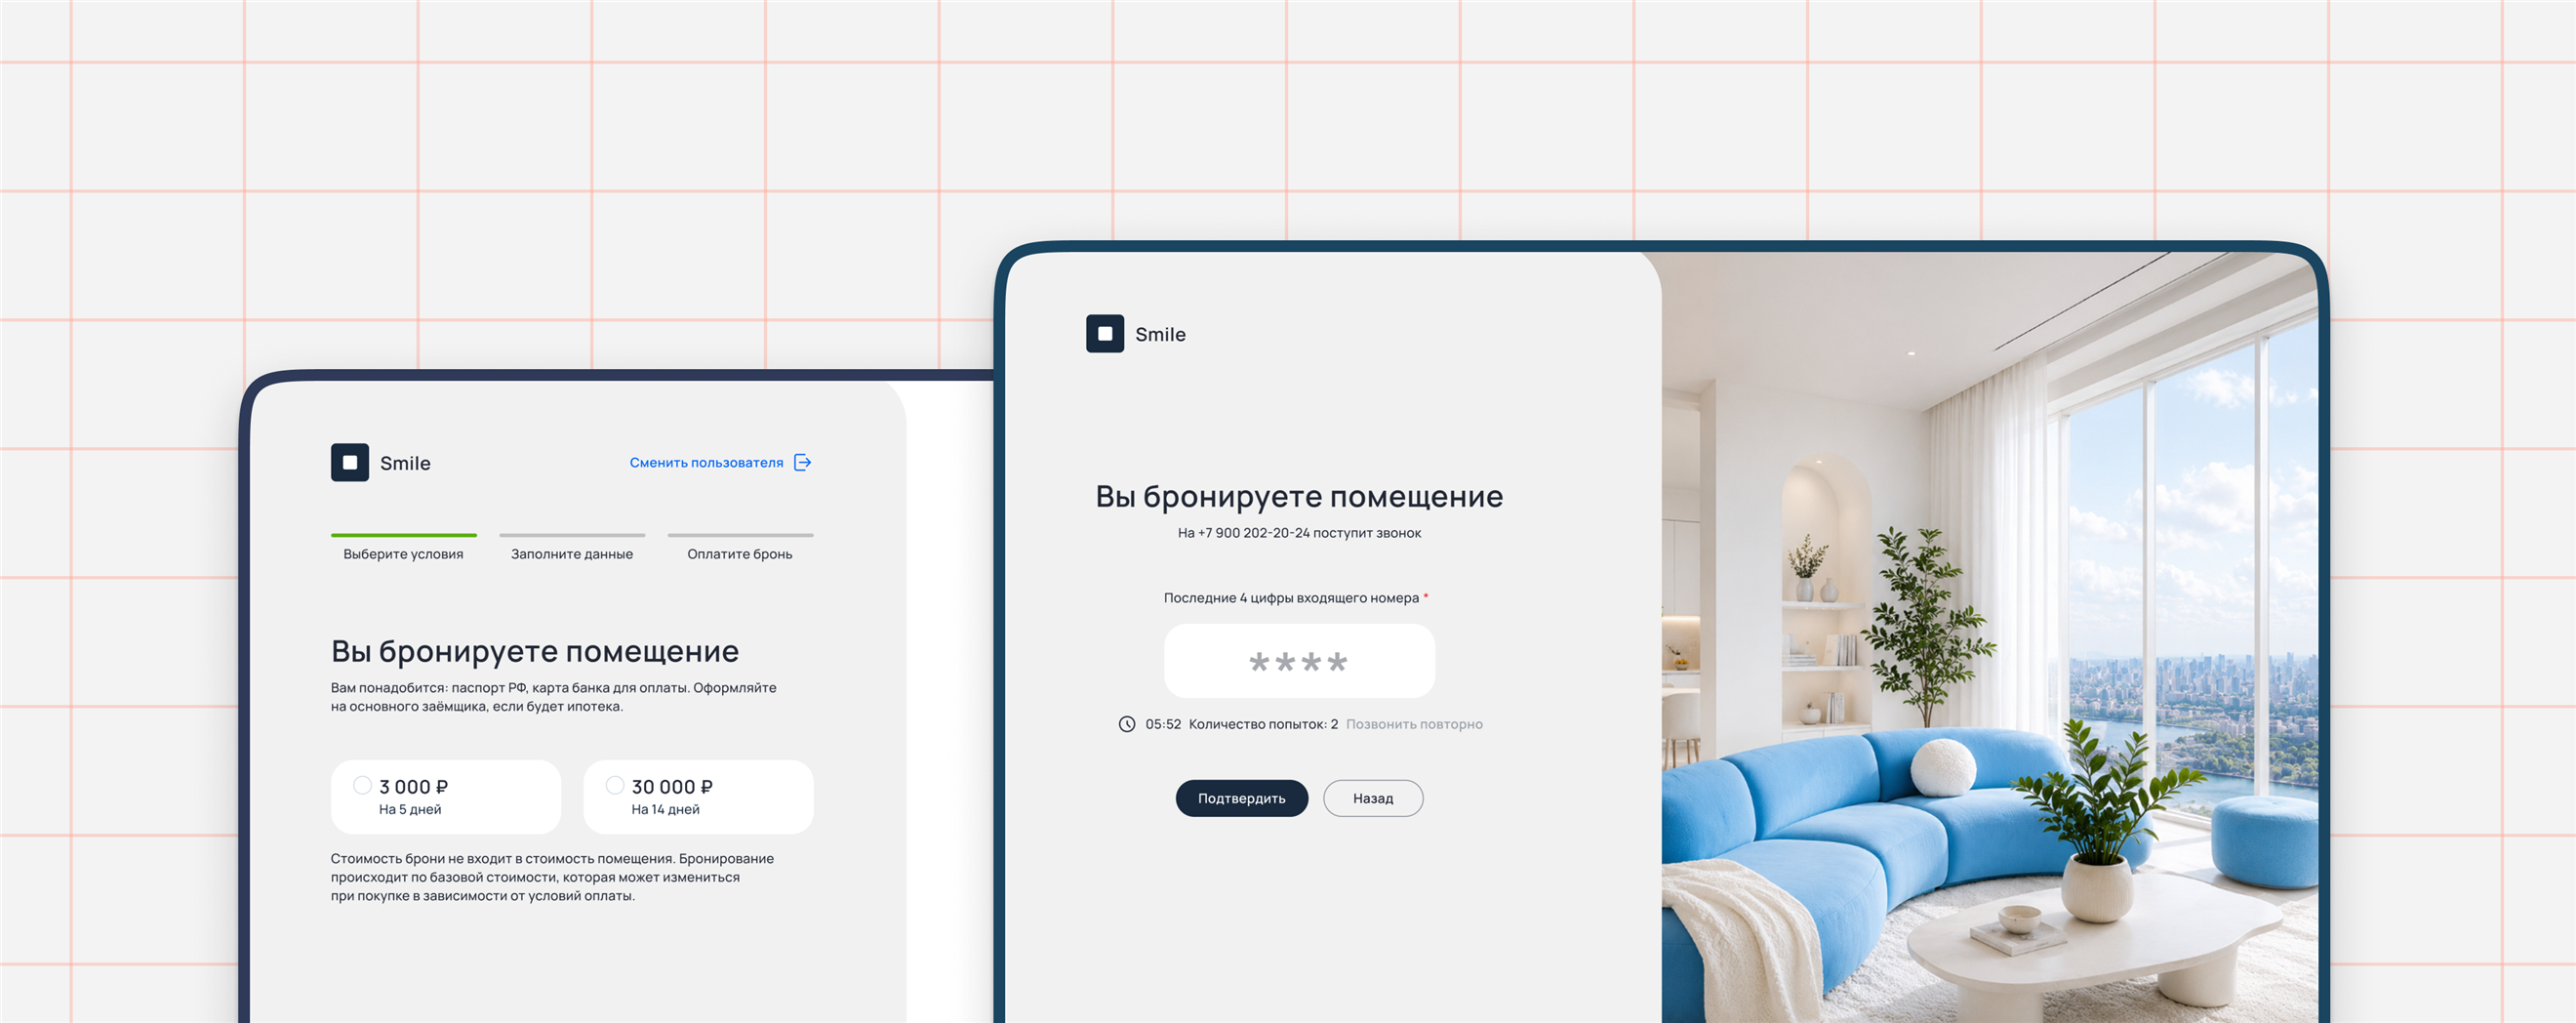
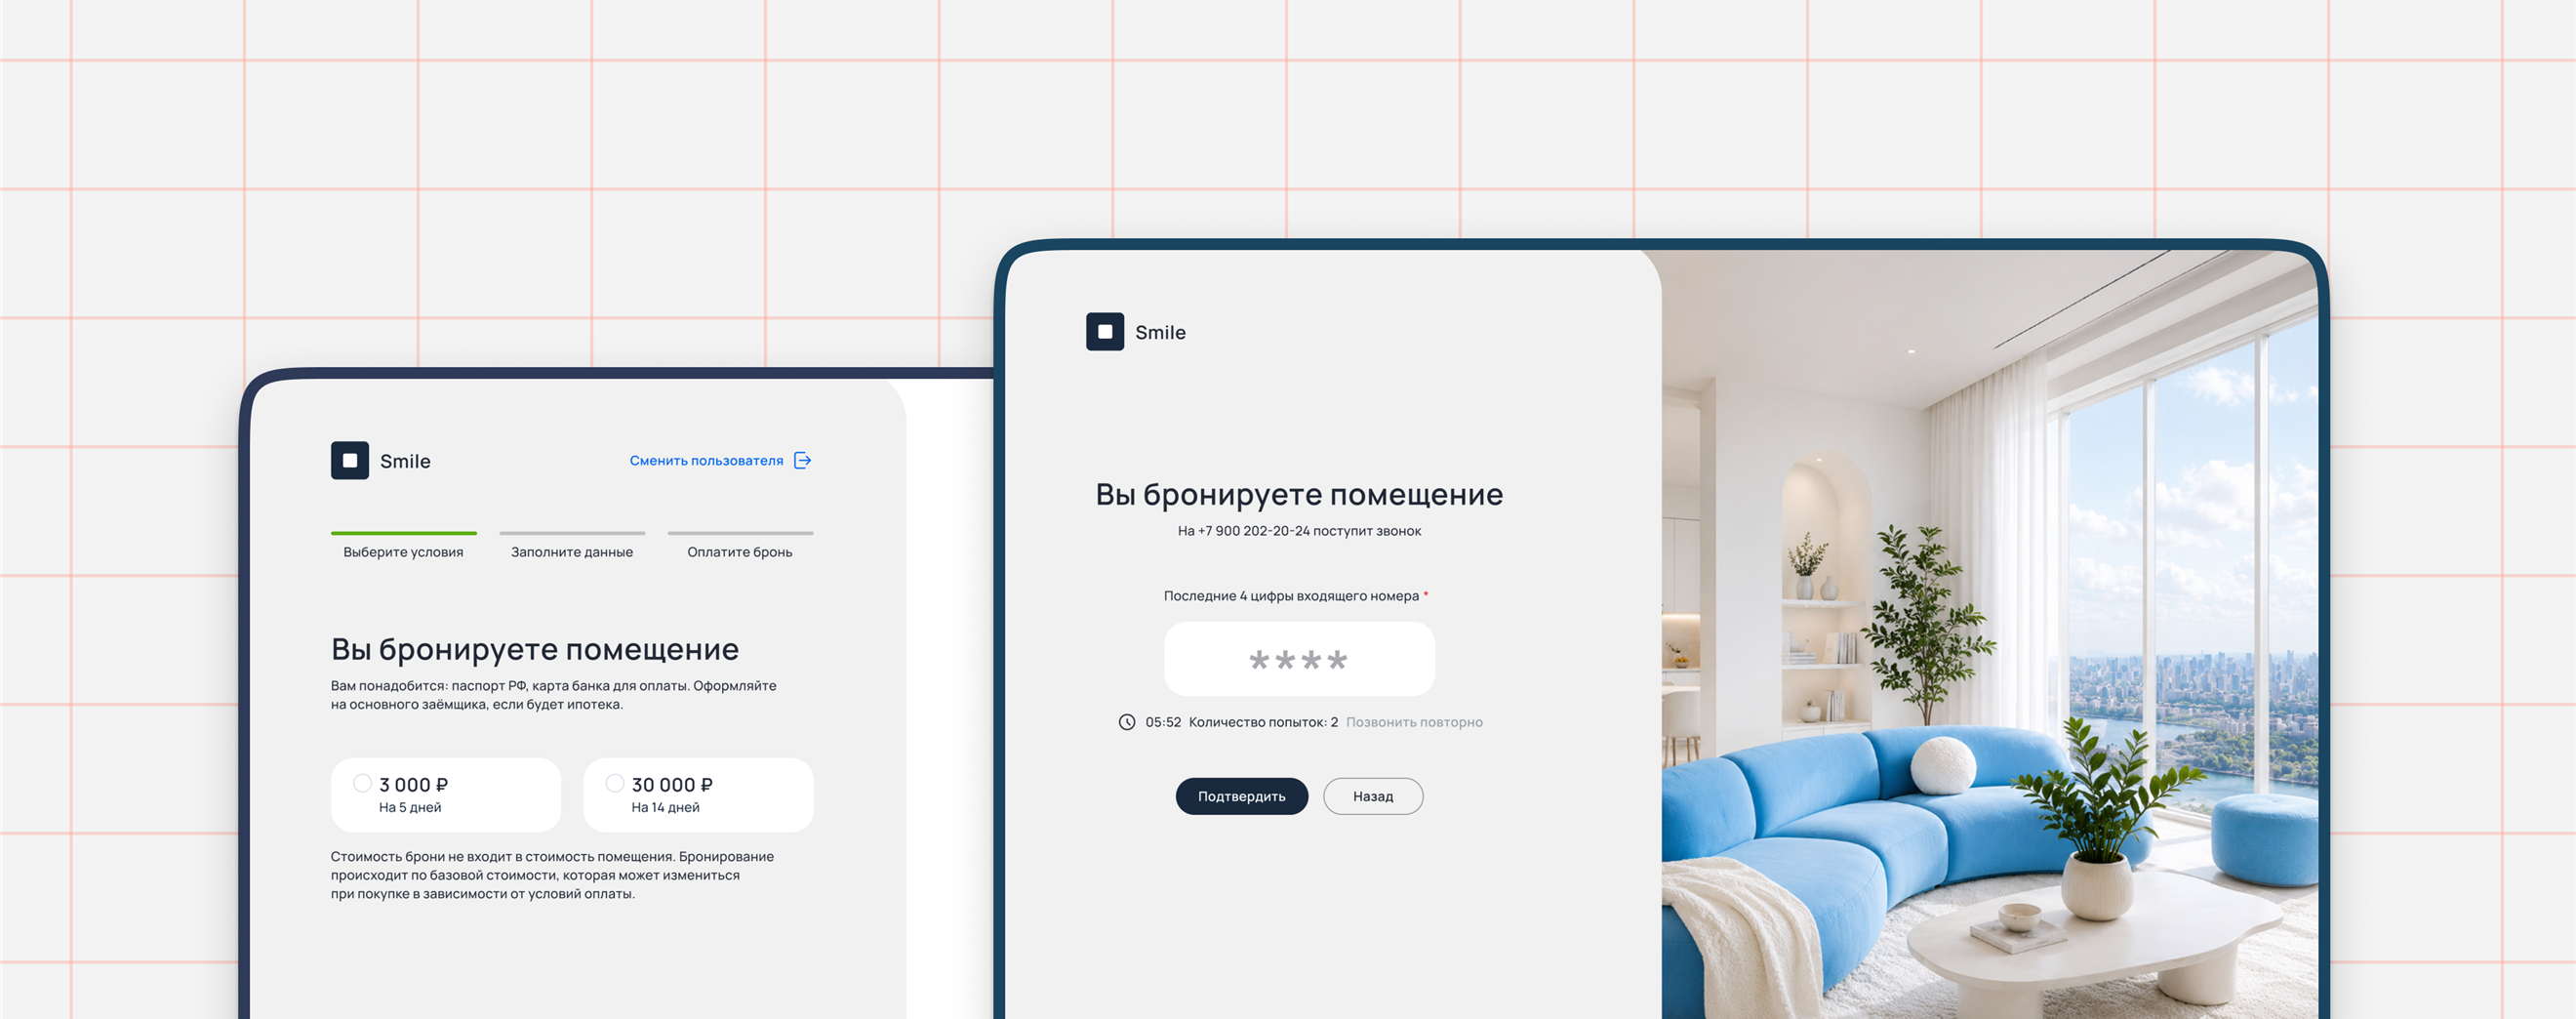
обновление карточек

diff --git a/index.html b/index.html
@@ -237,7 +237,7 @@
                   sizes="(max-width: 719px) calc(100vw - 40px), (max-width: 1023px) calc(100vw - 48px), (max-width: 1439px) calc(100vw - 80px), 1320px"
                   alt="Превью кейса Онлайн-бронирование для&nbsp;застройщика"
                   width="3960"
-                  height="1572"
+                  height="1568"
                   loading="lazy"
                   decoding="async"
                 >
@@ -292,6 +292,32 @@
                   alt="Превью кейса Концепт дашборда для&nbsp;поддержки"
                   width="3960"
                   height="1572"
+                  loading="lazy"
+                  decoding="async"
+                >
+              </div>
+            </div>
+
+            <div class="project-card-v3 project-card-v3--static">
+              <div class="project-card-v3__content">
+                <div class="project-card-v3__text">
+                  <h3 class="project-card-v3__title">Концепт спортивного приложения</h3>
+                </div>
+                <div class="project-card-v3__actions">
+                  <div class="project-card-v3__chips" aria-label="Теги кейса">
+                    <span class="project-card-v3__chip">B2C</span>
+                    <span class="project-card-v3__chip project-card-v3__chip--concept">Концепт</span>
+                  </div>
+                </div>
+              </div>
+              <div class="project-card-v3__media">
+                <img
+                  src="./assets/work-card-sports-concept.png"
+                  srcset="./assets/work-card-sports-concept-1980.png 1980w, ./assets/work-card-sports-concept-2640.png 2640w, ./assets/work-card-sports-concept.png 3960w"
+                  sizes="(max-width: 719px) calc(100vw - 40px), (max-width: 1023px) calc(100vw - 48px), (max-width: 1439px) calc(100vw - 80px), 1320px"
+                  alt="Превью концепта спортивного приложения"
+                  width="3960"
+                  height="1568"
                   loading="lazy"
                   decoding="async"
                 >

diff --git a/content/site-content.js b/content/site-content.js
@@ -70,7 +70,7 @@ window.PORTFOLIO_CONTENT = {
         imageSrcSet: "./assets/work-card-booking-1980.png 1980w, ./assets/work-card-booking-2640.png 2640w, ./assets/work-card-booking.png 3960w",
         imageAlt: "Превью кейса Онлайн-бронирование для застройщика",
         imageWidth: 3960,
-        imageHeight: 1572
+        imageHeight: 1568
       },
       {
         href: "./work/documents-in-deal/index.html",
@@ -93,6 +93,15 @@ window.PORTFOLIO_CONTENT = {
         imageAlt: "Превью кейса Концепт дашборда для поддержки",
         imageWidth: 3960,
         imageHeight: 1572
+      },
+      {
+        title: "Концепт спортивного приложения",
+        chips: ["B2C", "Концепт"],
+        imageSrc: "./assets/work-card-sports-concept.png",
+        imageSrcSet: "./assets/work-card-sports-concept-1980.png 1980w, ./assets/work-card-sports-concept-2640.png 2640w, ./assets/work-card-sports-concept.png 3960w",
+        imageAlt: "Превью концепта спортивного приложения",
+        imageWidth: 3960,
+        imageHeight: 1568
       },
       {
         title: "Концепт подбора квартиры на сайте",